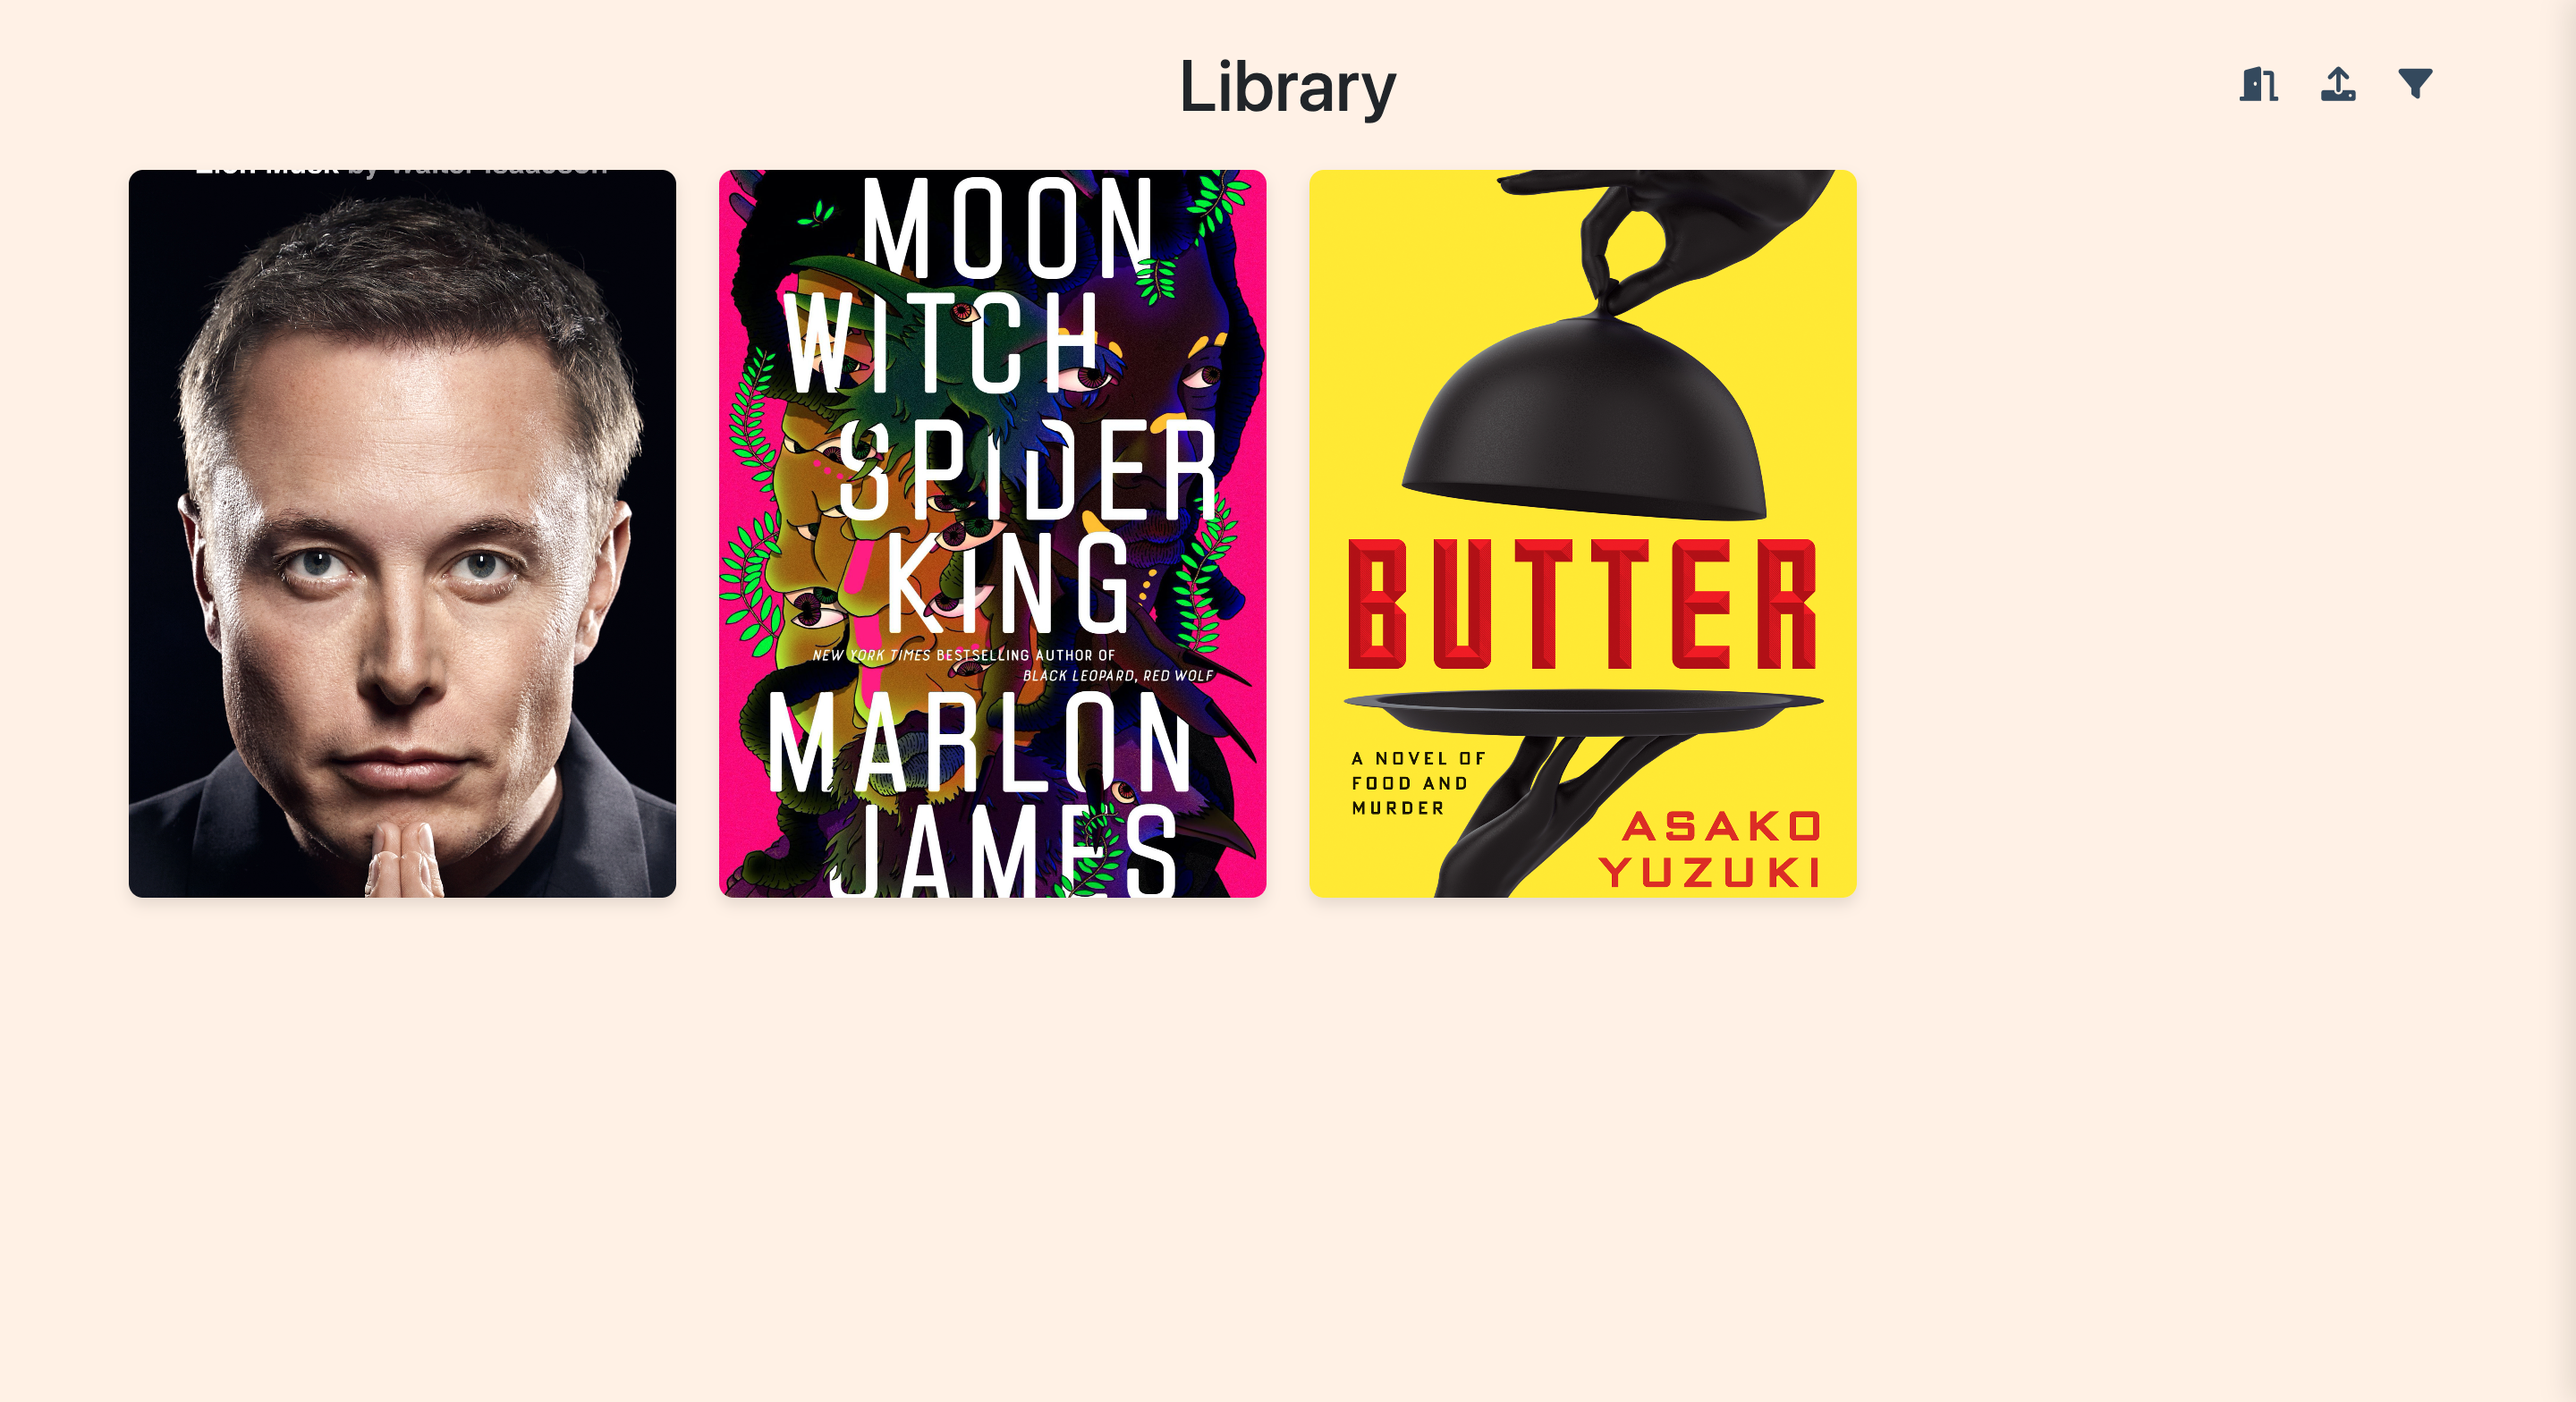
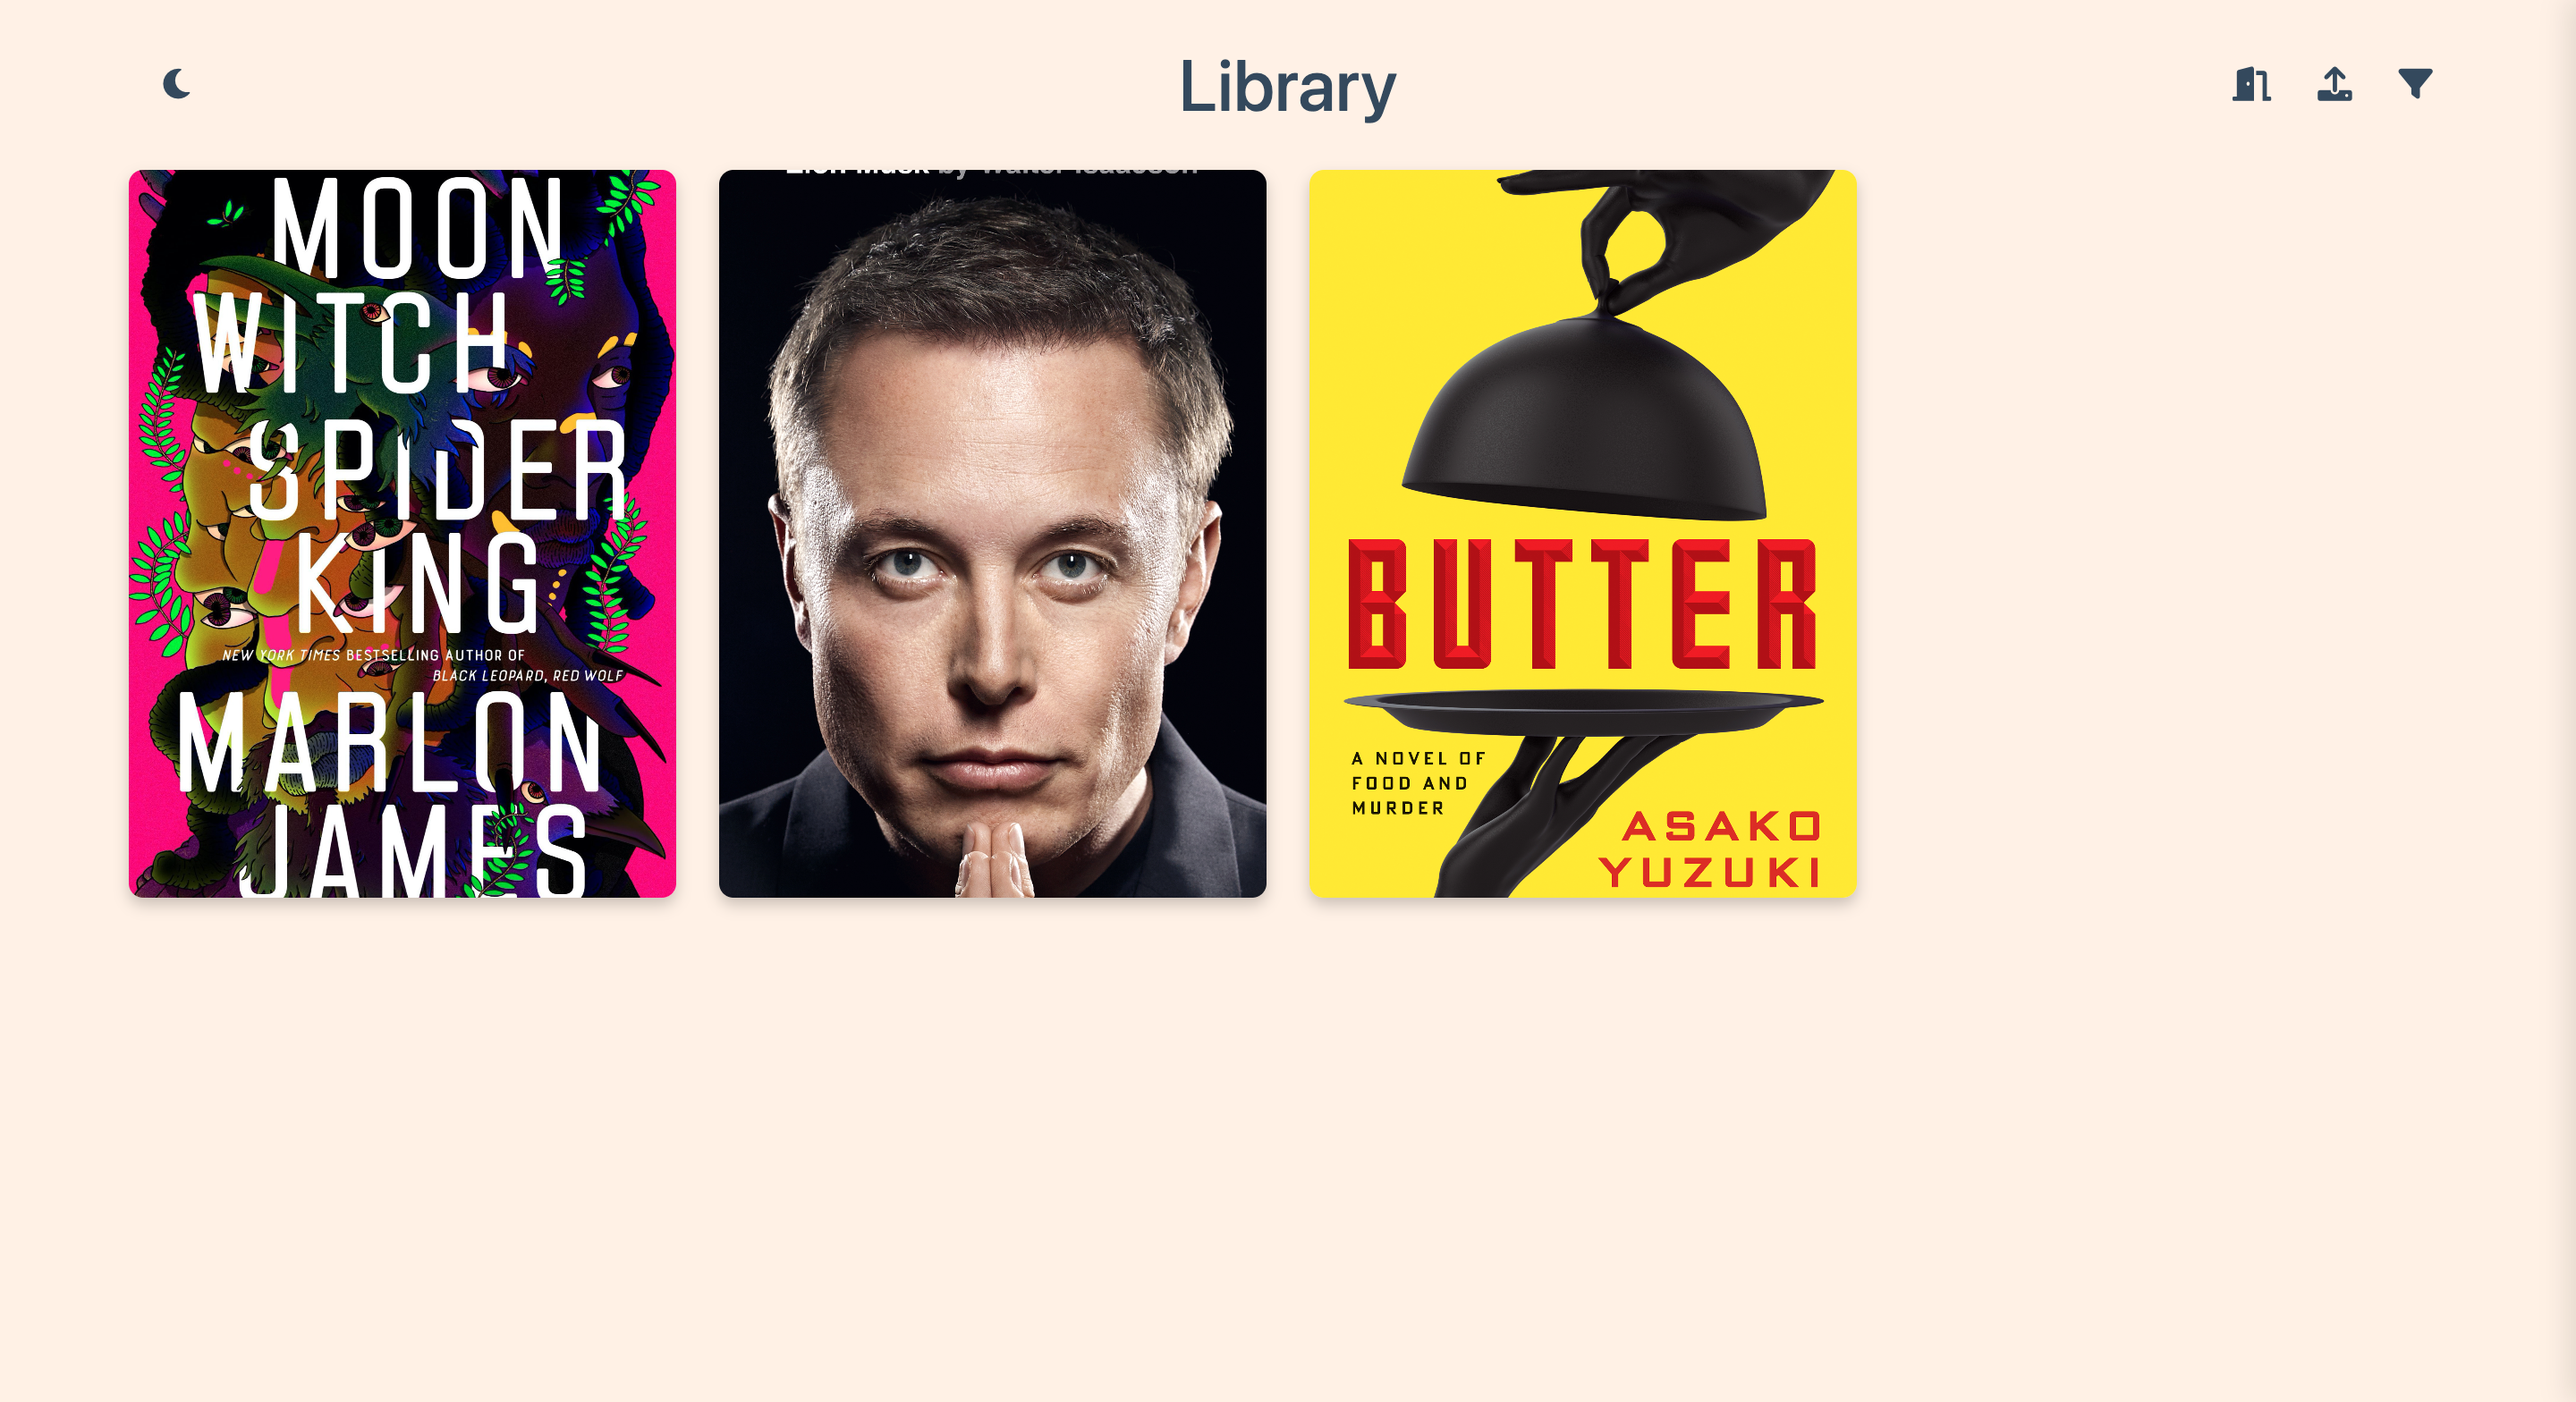
Final tweaks before sleeping

Changed region(s): [[0.0312, 0.125, 0.5, 0.6562], [0.4688, 0.0312, 0.5625, 0.0938], [0.875, 0.0312, 0.9062, 0.0625]]

diff --git a/templates/index.html b/templates/index.html
@@ -70,7 +70,7 @@
             margin-left: 10px;
         }
         .header-row h1 {
-            color: var(--text-color-dark);
+            color: var(--text-color-gray);
             margin: 0;
         }
         .library {
@@ -519,6 +519,9 @@
         .unread-tag {
             background: var(--tag-unread);
             color: black;
+        }
+        .dark-mode .book img {
+            filter: brightness(0.5);
         }
 
     </style>

diff --git a/README.md b/README.md
@@ -6,7 +6,7 @@ This project is an EPUB Library Management System built using Flask, SQLAlchemy,
 
 ![alt text](images/home_page.png)
 
-![alt text](images/metadata_overlay.png)
+![alt text](images/metadata_dark.png)
 
 ![alt text](images/epub_reader.png)
 
